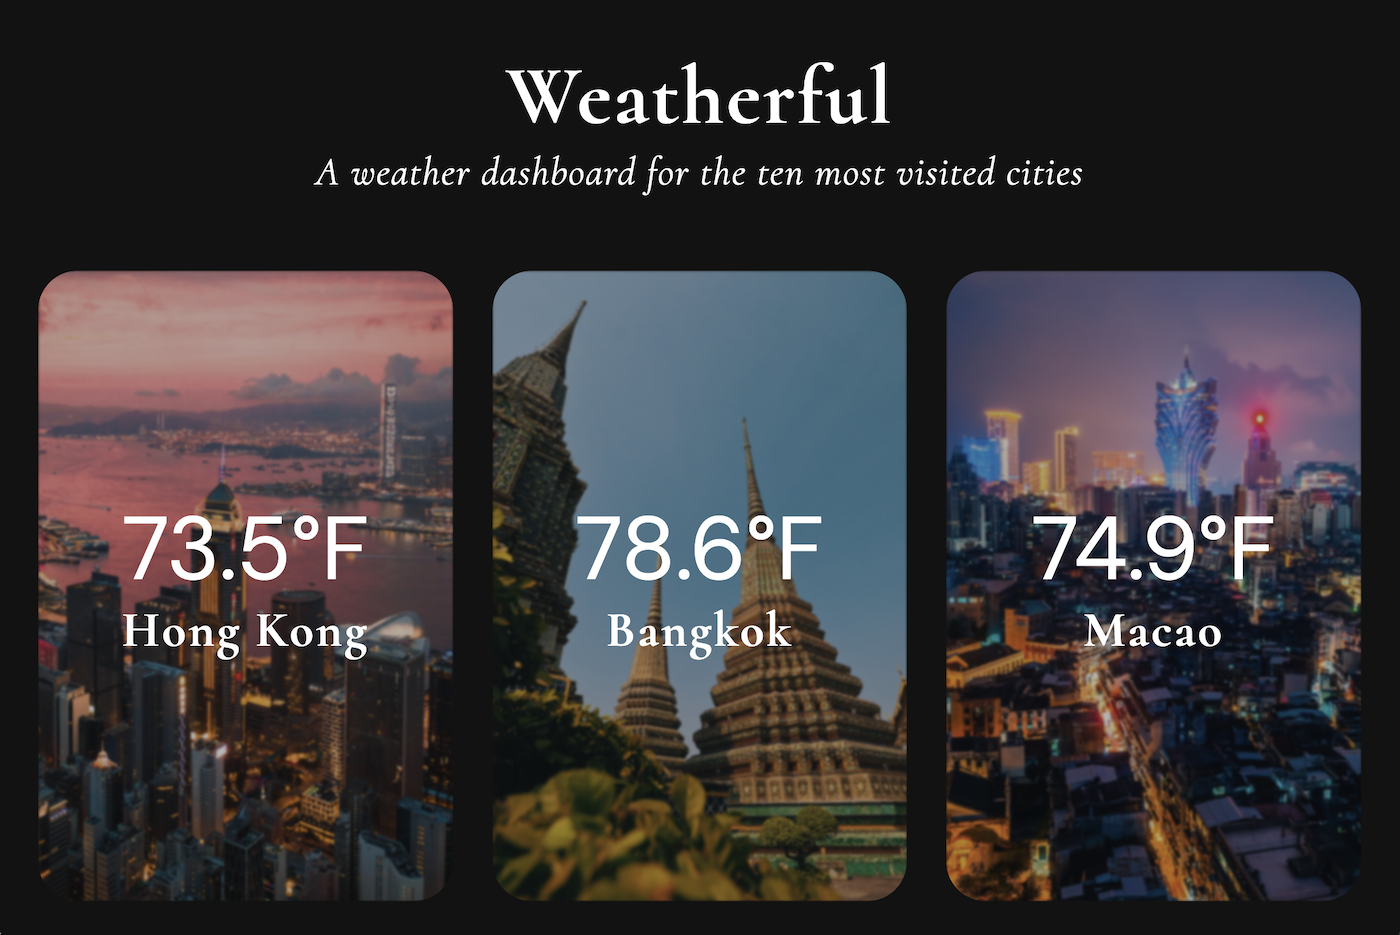
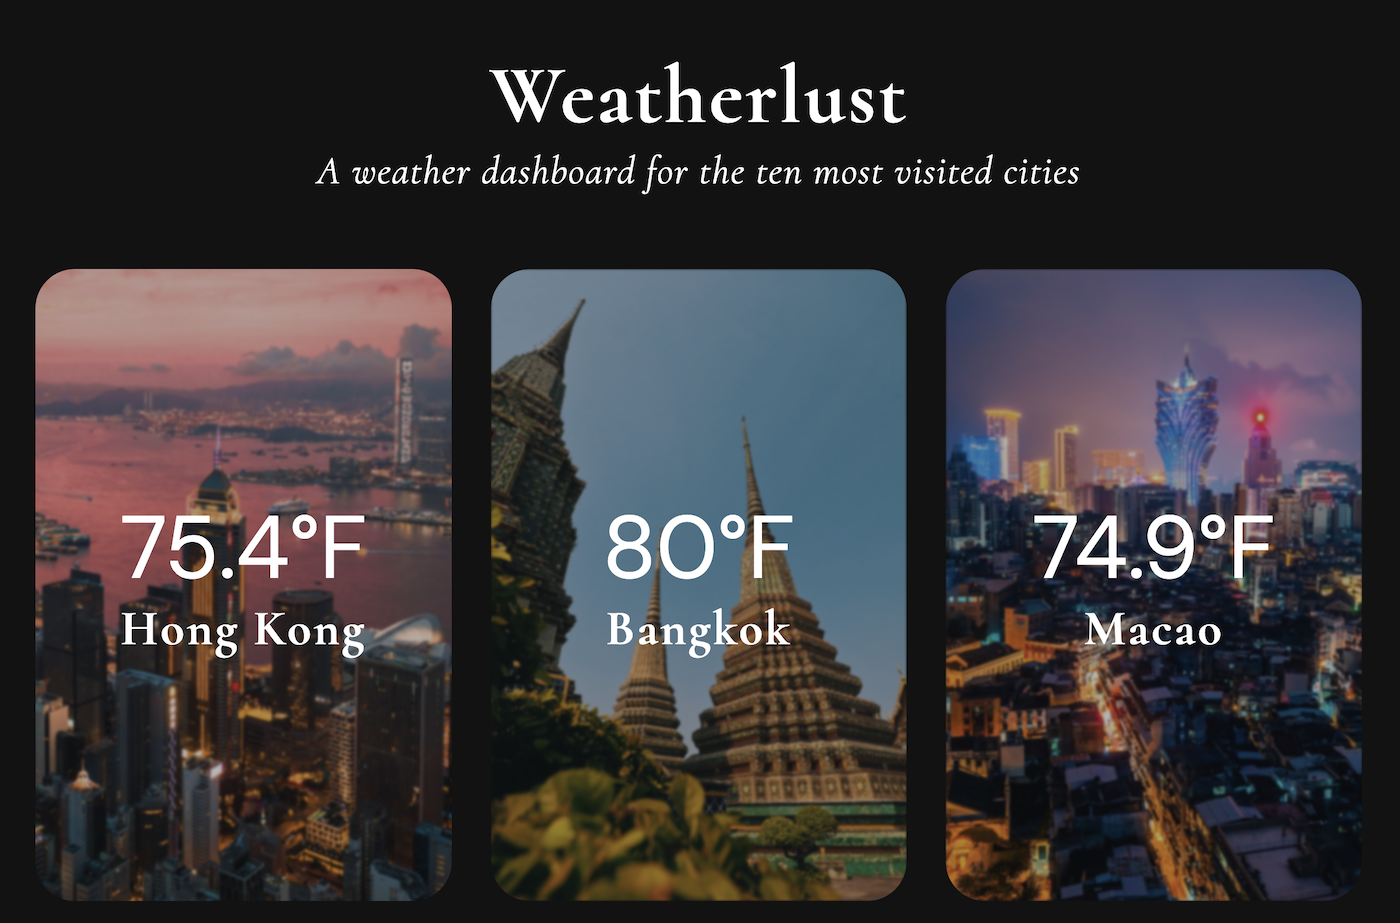
Update title

diff --git a/src/App.js b/src/App.js
@@ -4,7 +4,7 @@ function App() {
   return (
     <div className="app">
       <div className="heading">
-        <h1 className="title">Weatherful</h1>
+        <h1 className="title">Weatherlust</h1>
         <h2 className="subtitle">
           A weather dashboard for the ten most visited cities
         </h2>

diff --git a/README.md b/README.md
@@ -1,4 +1,4 @@
-# Weatherful
+# Weatherlust
 
 A weather dashboard for the top 10 most visited cities in the world, created with [Create React App](https://github.com/facebook/create-react-app) and [OpenWeatherMap API](https://openweathermap.org/).
 
